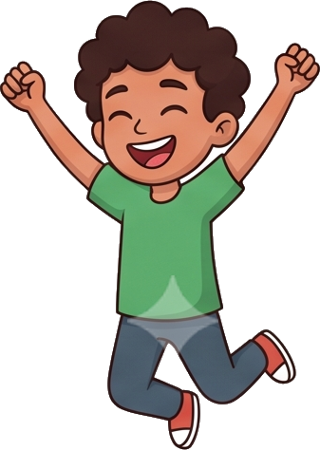
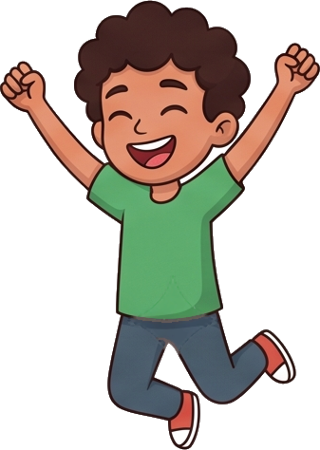
remove Gemini sparkle watermark from son-jumping pose
cut-characters.py un-blends the ~31% white overlay before cropping.

Changed region(s): [[0.4062, 0.5911, 0.6875, 0.7778]]

diff --git a/app/scripts/cut-characters.py b/app/scripts/cut-characters.py
@@ -35,6 +35,54 @@ CROPS = {
 }
 
 
+def remove_sparkle(sheet: Image.Image) -> Image.Image:
+    """Undo the white 4-point sparkle stamped over son-jumping's waist.
+    It's white blended at ~31% opacity: original = (seen - 255*a) / (1 - a).
+    Which pixels it covers is found by checking which colour, un-blended or as-is, better matches the
+    drawing's own palette (sampled from a ring just outside the sparkle). The anti-aliased rim gets
+    per-pixel opacity; a 3x3 median then smooths only the repaired patch."""
+    from PIL import ImageFilter
+
+    A, (X0, Y0, X1, Y1), (CX, CY), R = 0.31, (2490, 1225, 2670, 1360), (2575, 1290), 62
+    img = np.array(sheet.convert("RGB")).astype(float)
+    box = img[Y0:Y1, X0:X1]
+    h, w = box.shape[:2]
+    yy, xx = np.mgrid[0:h, 0:w]
+    r = np.hypot(xx + X0 - CX, yy + Y0 - CY)
+    pal = np.unique((box[(r > R) & (r < R + 28)] // 6 * 6).astype(int), axis=0).astype(float)
+
+    def palette_dist(c):
+        return np.sqrt(((c[:, :, None, :] - pal[None, None]) ** 2).sum(-1).min(-1))
+
+    def unblend(a):
+        return (box - 255 * a) / (1 - a)
+
+    cand = unblend(A)
+    valid = (cand >= -8).all(-1)
+    core = valid & (palette_dist(cand) + 6 < palette_dist(box)) & (r < R)
+    m = core.astype(int)
+    nb = sum(np.roll(np.roll(m, dy, 0), dx, 1) for dy in (-1, 0, 1) for dx in (-1, 0, 1)) - m
+    core = (core | ((nb >= 6) & valid & (r < R))) & ~((nb <= 1) & core)  # fill pinholes, drop specks
+
+    near = core.copy()
+    for _ in range(3):
+        near |= np.roll(near, 1, 0) | np.roll(near, -1, 0) | np.roll(near, 1, 1) | np.roll(near, -1, 1)
+    best_a, best_d = np.zeros((h, w)), np.full((h, w), np.inf)
+    for a in np.linspace(0, 0.36, 13):
+        c = unblend(a)
+        d = palette_dist(c) + 40 * a * ~core  # on the rim, prefer leaving pixels alone
+        d[~(c >= -8).all(-1)] = np.inf
+        better = d < best_d
+        best_d[better], best_a[better] = d[better], a
+    best_a[~near] = 0
+    best_a[core] = A
+    out = np.clip((box - 255 * best_a[..., None]) / (1 - best_a[..., None]), 0, 255)
+    med = np.array(Image.fromarray(out.astype(np.uint8)).filter(ImageFilter.MedianFilter(3))).astype(float)
+    out[near] = med[near]
+    img[Y0:Y1, X0:X1] = out
+    return Image.fromarray(img.astype(np.uint8))
+
+
 def remove_bg(img: Image.Image) -> Image.Image:
     """Flood-fill background connected to the border -> transparent.
     Background = light and low-saturation: white paper plus the soft lavender floor shadows.
@@ -62,7 +110,7 @@ def remove_bg(img: Image.Image) -> Image.Image:
 
 
 os.makedirs(OUT, exist_ok=True)
-sheet = Image.open(SRC)
+sheet = remove_sparkle(Image.open(SRC))
 print("sheet", sheet.size)
 cuts = {}
 for name, (box, max_size) in CROPS.items():
